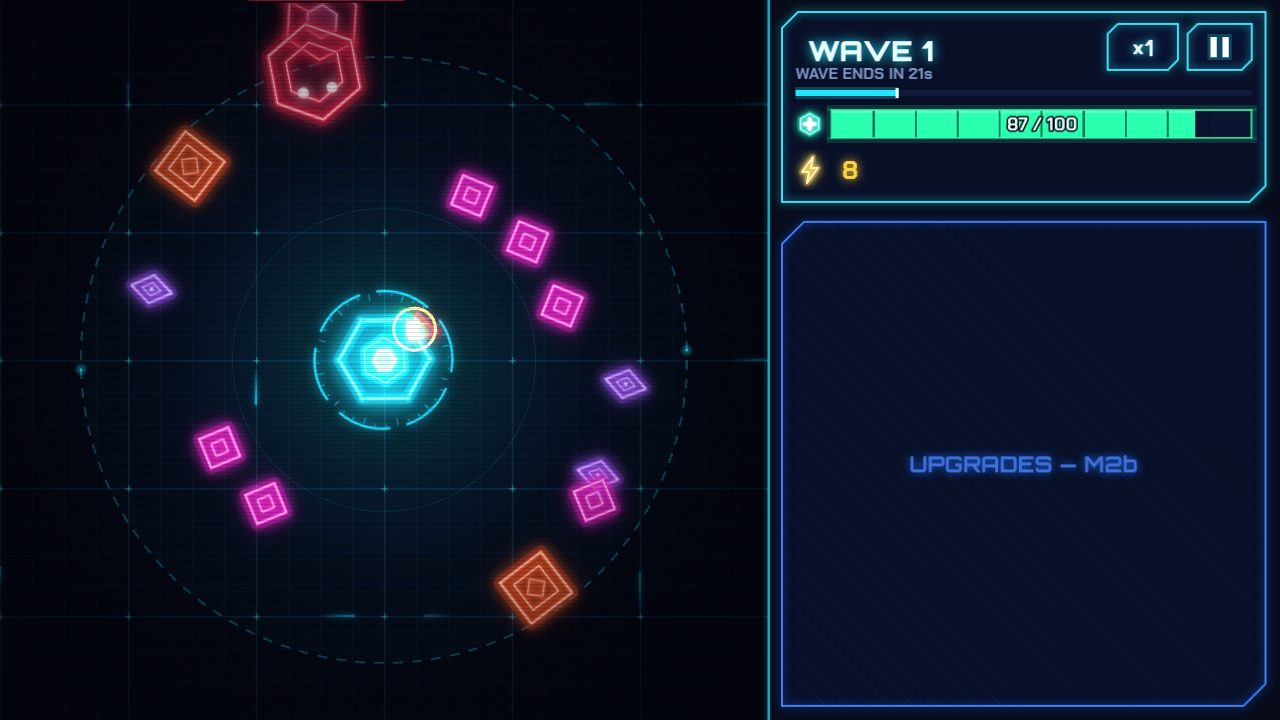
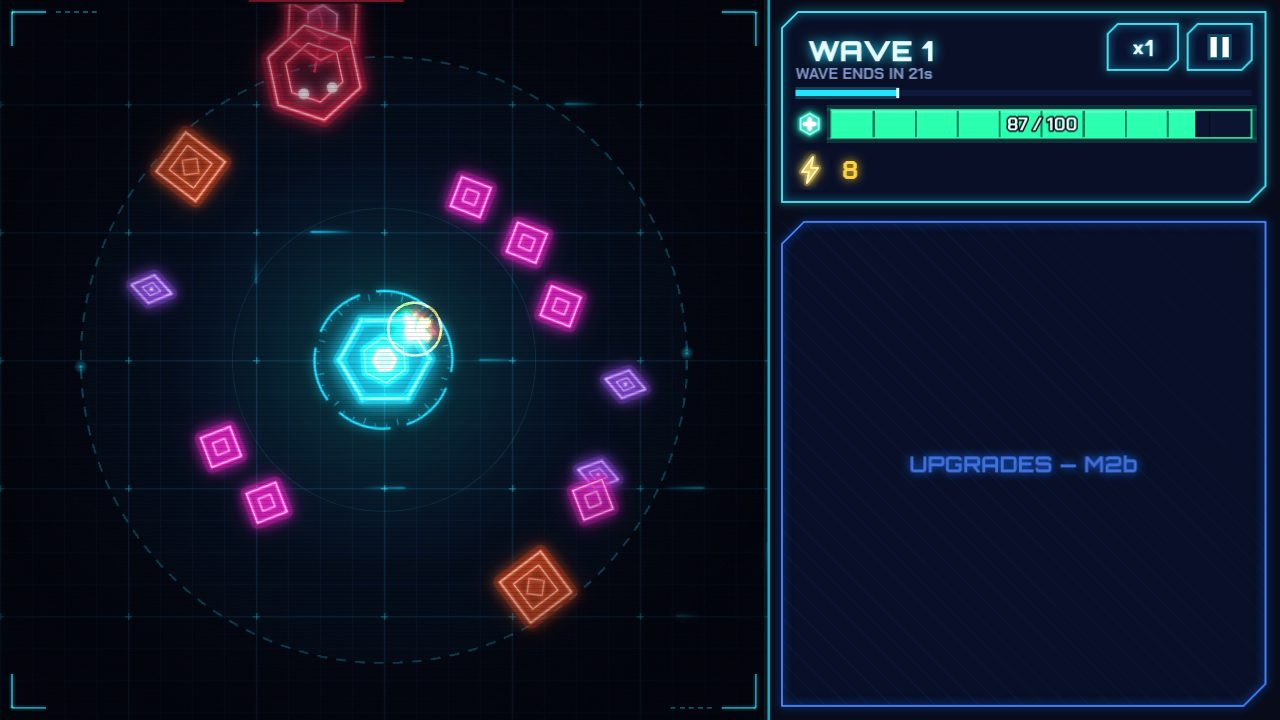
Look pass: arena brackets, worm spine, fast-virus streaks, dead-core flicker; dev data gated on DEV; screenshots
Claude-Session: https://claude.ai/code/session_01BZKsxQEywShKS3YYg1GcQ4

diff --git a/src/render/WorldView.ts b/src/render/WorldView.ts
@@ -67,6 +67,8 @@ export class WorldView {
   private readonly tracerLive = new Map<number, Phaser.GameObjects.Image>();
   private readonly tracerStamp = new Map<number, number>();
   private readonly bars: Phaser.GameObjects.Graphics;
+  /** Glowing spine linking the boss worm's segments. */
+  private readonly spine: Phaser.GameObjects.Graphics;
   private readonly bossLabel: Phaser.GameObjects.Text;
   private readonly coreLight: Phaser.GameObjects.Image;
   private readonly coreOuter: Phaser.GameObjects.Image;
@@ -123,6 +125,8 @@ export class WorldView {
     this.bossImgs = new ImagePool(scene, 'e_boss_seg', DEPTH.boss, Phaser.BlendModes.NORMAL);
     this.tracers = new ImagePool(scene, 'tracer', DEPTH.projectile);
     this.bars = scene.add.graphics().setDepth(DEPTH.bars);
+    this.spine = scene.add.graphics().setDepth(DEPTH.boss - 0.5).setBlendMode(Phaser.BlendModes.ADD);
+    this.drawBrackets(scene);
     this.bossLabel = scene.add
       .text(0, 0, 'WORM.EXE', { fontFamily: '"Orbitron", monospace', fontSize: `${Math.max(L.minFont - 8, 14)}px`, fontStyle: '700', color: '#ff6b8b', resolution: RS })
       .setOrigin(0.5, 1)
@@ -204,7 +208,8 @@ export class WorldView {
     const L = this.L;
     const sess = this.session();
     const w = sess.world;
-    this.drawCore(w.core.hp / w.core.maxHp, now);
+    this.drawCore(w.core.hp / w.core.maxHp, now, w.dead);
+    this.spine.clear();
     this.drawPulses(dt);
 
     const bars = this.bars.clear();
@@ -358,6 +363,9 @@ export class WorldView {
     const ly = b.ty[b.head]!;
     if (Math.hypot(hx - lx, hy - ly) >= 3) this.pushTrail(b, hx, hy);
     s.img.setPosition(L.cx + hx * L.scale, L.cy + hy * L.scale).setRotation(toCore + Math.cos(b.phase * 1.8) * 0.35).setScale(k);
+    const sp = this.spine;
+    let lastX = s.img.x;
+    let lastY = s.img.y;
     // Walk back along the trail placing segments at fixed arc lengths.
     const spacing = this.segSpacing(e);
     let seg = 0;
@@ -377,6 +385,10 @@ export class WorldView {
         const img = b.segs[seg]!;
         const sc = SEG_SCALE[seg]!;
         img.setPosition(L.cx + x * L.scale, L.cy + y * L.scale).setScale(k * sc).setAlpha(fade);
+        sp.lineStyle(10 * sc, CRIMSON, 0.16 * fade).lineBetween(lastX, lastY, img.x, img.y);
+        sp.lineStyle(2.5, CRIMSON, 0.75 * fade).lineBetween(lastX, lastY, img.x, img.y);
+        lastX = img.x;
+        lastY = img.y;
         img.setRotation(this.lastNow * 0.001 * (seg % 2 ? 1 : -1));
         seg++;
         target += spacing * (0.55 + sc * 0.5);
@@ -388,8 +400,38 @@ export class WorldView {
     for (; seg < BOSS_SEGMENTS; seg++) b.segs[seg]!.setPosition(L.cx + px * L.scale, L.cy + py * L.scale).setScale(k * SEG_SCALE[seg]!);
   }
 
-  private drawCore(hpFrac: number, now: number): void {
+  /** Cyber-frame corner brackets around the arena. */
+  private drawBrackets(scene: Phaser.Scene): void {
+    const a = this.L.arena;
+    const g = scene.add.graphics().setDepth(DEPTH.scan + 0.5).setBlendMode(Phaser.BlendModes.ADD);
+    const m = 12;
+    const len = 34;
+    const x0 = a.x + m;
+    const y0 = a.y + m;
+    const x1 = a.x + a.w - m;
+    const y1 = a.y + a.h - m;
+    for (const [lw, al] of [[6, 0.1], [2, 0.55]] as const) {
+      g.lineStyle(lw, CORE, al);
+      g.strokePoints([{ x: x0, y: y0 + len }, { x: x0, y: y0 }, { x: x0 + len, y: y0 }]);
+      g.strokePoints([{ x: x1 - len, y: y0 }, { x: x1, y: y0 }, { x: x1, y: y0 + len }]);
+      g.strokePoints([{ x: x0, y: y1 - len }, { x: x0, y: y1 }, { x: x0 + len, y: y1 }]);
+      g.strokePoints([{ x: x1 - len, y: y1 }, { x: x1, y: y1 }, { x: x1, y: y1 - len }]);
+    }
+    // Small tick rows along the top and bottom edges.
+    g.fillStyle(CORE, 0.35);
+    for (let i = 0; i < 5; i++) {
+      g.fillRect(x0 + len + 10 + i * 9, y0 - 1, 5, 2);
+      g.fillRect(x1 - len - 15 - i * 9, y1 - 1, 5, 2);
+    }
+  }
+
+  private drawCore(hpFrac: number, now: number, dead: boolean): void {
     const L = this.L;
+    const show = !dead || Math.random() < 0.15;
+    this.coreOuter.setVisible(show);
+    this.coreInner.setVisible(show);
+    this.coreRing.setVisible(!dead);
+    this.coreLight.setVisible(!dead);
     let x = L.cx;
     let y = L.cy;
     if (now < this.coreShakeUntil) {

diff --git a/src/render/scenes/BattleScene.ts b/src/render/scenes/BattleScene.ts
@@ -7,7 +7,8 @@ import { DeathOverlay } from '../../ui/DeathOverlay';
 import { Hud } from '../../ui/Hud';
 import { text } from '../../ui/kit';
 import { circleInRect, type Layout } from '../../ui/layout';
-import { battleData, DEV_TUNING, type DevFlags, readFlags } from '../devFlags';
+import battleJson from '../../data/battle.json';
+import { battleData, type DevFlags, readFlags, stressTuning } from '../devFlags';
 import { Effects } from '../effects';
 import { FixedLoop } from '../loop';
 import { CRIMSON } from '../palette';
@@ -18,8 +19,8 @@ import { RS } from '../resolution';
 const MAX_TICKS_PER_FRAME = 4;
 const ENEMY_TEX: Record<EnemyKind, string> = { basic: 'e_basic', fast: 'e_fast', tank: 'e_tank', ranged: 'e_ranged', boss: 'e_boss_head' };
 const STRESS_KINDS: EnemyKind[] = ['basic', 'fast', 'tank', 'ranged'];
-/** Player-facing speeds; ×5 is reachable only through dev hooks / stress (labs unlock it in M4). */
-const SPEEDS = [1, 2];
+/** Player-facing speeds; up to maxSpeed only through dev hooks / stress (labs unlock ×3–×5 in M4). */
+const SPEEDS: number[] = battleJson.speeds;
 
 function newSeed(): number {
   return Math.floor(Math.random() * 0x7fffffff);
@@ -43,6 +44,7 @@ export class BattleScene extends Phaser.Scene {
   private frameMs: number[] = [];
   private readonly tmp = { x: 0, y: 0 };
   private deathAt = 0;
+  private stressCount = 0;
 
   constructor() {
     super('Battle');
@@ -64,8 +66,10 @@ export class BattleScene extends Phaser.Scene {
       .setOrigin(0.5)
       .setDepth(DEPTH.bars + 0.5)
       .setVisible(false);
-    if (this.flags.stress) {
-      this.speed = DEV_TUNING.stress.speed;
+    const stress = this.flags.stress ? stressTuning() : null;
+    this.stressCount = stress?.enemies ?? 0;
+    if (stress) {
+      this.speed = stress.speed;
       this.fpsText = text(this, a.x + 16, a.y + a.h - 16, '', this.L.minFont, { color: '#2bffb0', stroke: true }).setOrigin(0, 1).setDepth(DEPTH.overlay - 1);
     }
     this.input.keyboard?.on('keydown-SPACE', () => this.setPaused(!this.paused));
@@ -80,7 +84,7 @@ export class BattleScene extends Phaser.Scene {
   }
 
   setSpeed(n: number): void {
-    this.speed = Math.max(1, Math.min(DEV_TUNING.maxSpeed, Math.round(n)));
+    this.speed = Math.max(1, Math.min(battleJson.maxSpeed, Math.round(n)));
   }
 
   setPaused(p: boolean): void {
@@ -180,8 +184,8 @@ export class BattleScene extends Phaser.Scene {
 
   override update(time: number, delta: number): void {
     const w = this.session.world;
-    if (this.flags.stress && !w.dead) {
-      const missing = DEV_TUNING.stress.enemies - w.enemies.length;
+    if (this.stressCount > 0 && !w.dead) {
+      const missing = this.stressCount - w.enemies.length;
       for (let i = 0; i < missing; i++) this.session.spawn(STRESS_KINDS[(w.nextId + i) % STRESS_KINDS.length]!, 1, this.onEvent);
     }
     const n = this.loop.frame(delta, this.paused || w.dead ? 0 : this.speed);

diff --git a/src/render/textures.ts b/src/render/textures.ts
@@ -102,8 +102,22 @@ function enemies(scene: Phaser.Scene, data: GameData): void {
     const i = h * 0.42;
     neon(ctx, [[c - i, c - i], [c + i, c - i], [c + i, c + i], [c - i, c + i]], C.basic, 1.6, 0.35, 6);
   });
-  shapeTexture(scene, 'e_fast', r('fast') * 1.4, (ctx, c) => {
+  shapeTexture(scene, 'e_fast', r('fast') * 2.2, (ctx, c) => {
     const pts = regular(c, c, r('fast') * 1.2, 3, 0);
+    // Speed streaks trailing behind (the texture points +x).
+    const rf = r('fast');
+    ctx.lineCap = 'round';
+    for (const [dy, len, a] of [[-rf * 0.5, rf * 1.1, 0.55], [rf * 0.5, rf * 1.1, 0.55], [0, rf * 0.7, 0.35]] as const) {
+      const g = ctx.createLinearGradient(c - rf * 0.7 - len, 0, c - rf * 0.5, 0);
+      g.addColorStop(0, rgba(C.fast, 0));
+      g.addColorStop(1, rgba(C.fast, a));
+      ctx.strokeStyle = g;
+      ctx.lineWidth = 2;
+      ctx.beginPath();
+      ctx.moveTo(c - rf * 0.7 - len, c + dy);
+      ctx.lineTo(c - rf * 0.6, c + dy);
+      ctx.stroke();
+    }
     neon(ctx, pts, C.fast, 3);
     dot(ctx, c - r('fast') * 0.1, c, 2.2, C.fast, 6);
   });

diff --git a/src/render/devFlags.ts b/src/render/devFlags.ts
@@ -13,7 +13,10 @@ export interface DevFlags {
   seed: number | null;
 }
 
-export const DEV_TUNING = devJson;
+/** Stress-mode knobs, or null outside DEV (keeps dev.json out of production bundles). */
+export function stressTuning(): typeof devJson.stress | null {
+  return import.meta.env.DEV ? devJson.stress : null;
+}
 
 export function readFlags(search: string): DevFlags {
   if (!import.meta.env.DEV) return { stress: false, weak: false, seed: null };
@@ -24,7 +27,7 @@ export function readFlags(search: string): DevFlags {
 
 /** The data a battle runs on: the defaults, or a patched dev copy. */
 export function battleData(base: GameData, f: DevFlags): GameData {
-  if (!f.stress && !f.weak) return base;
+  if (!import.meta.env.DEV || (!f.stress && !f.weak)) return base;
   const d = structuredClone(base);
   if (f.stress) {
     const s = devJson.stress;

diff --git a/src/render/effects.ts b/src/render/effects.ts
@@ -12,7 +12,6 @@ import { DEPTH } from './WorldView';
 const enum T {
   Beam,
   Ring,
-  Flare,
 }
 
 interface Transient {
@@ -206,8 +205,6 @@ export class Effects {
           g.lineStyle(3 * (1 - k) + 0.5, it.color, 0.9 * (1 - k)).strokeCircle(it.x, it.y, it.r * (0.35 + 0.65 * e));
           break;
         }
-        case T.Flare:
-          break;
       }
       // Compact live records to the front.
       if (n !== i) {
